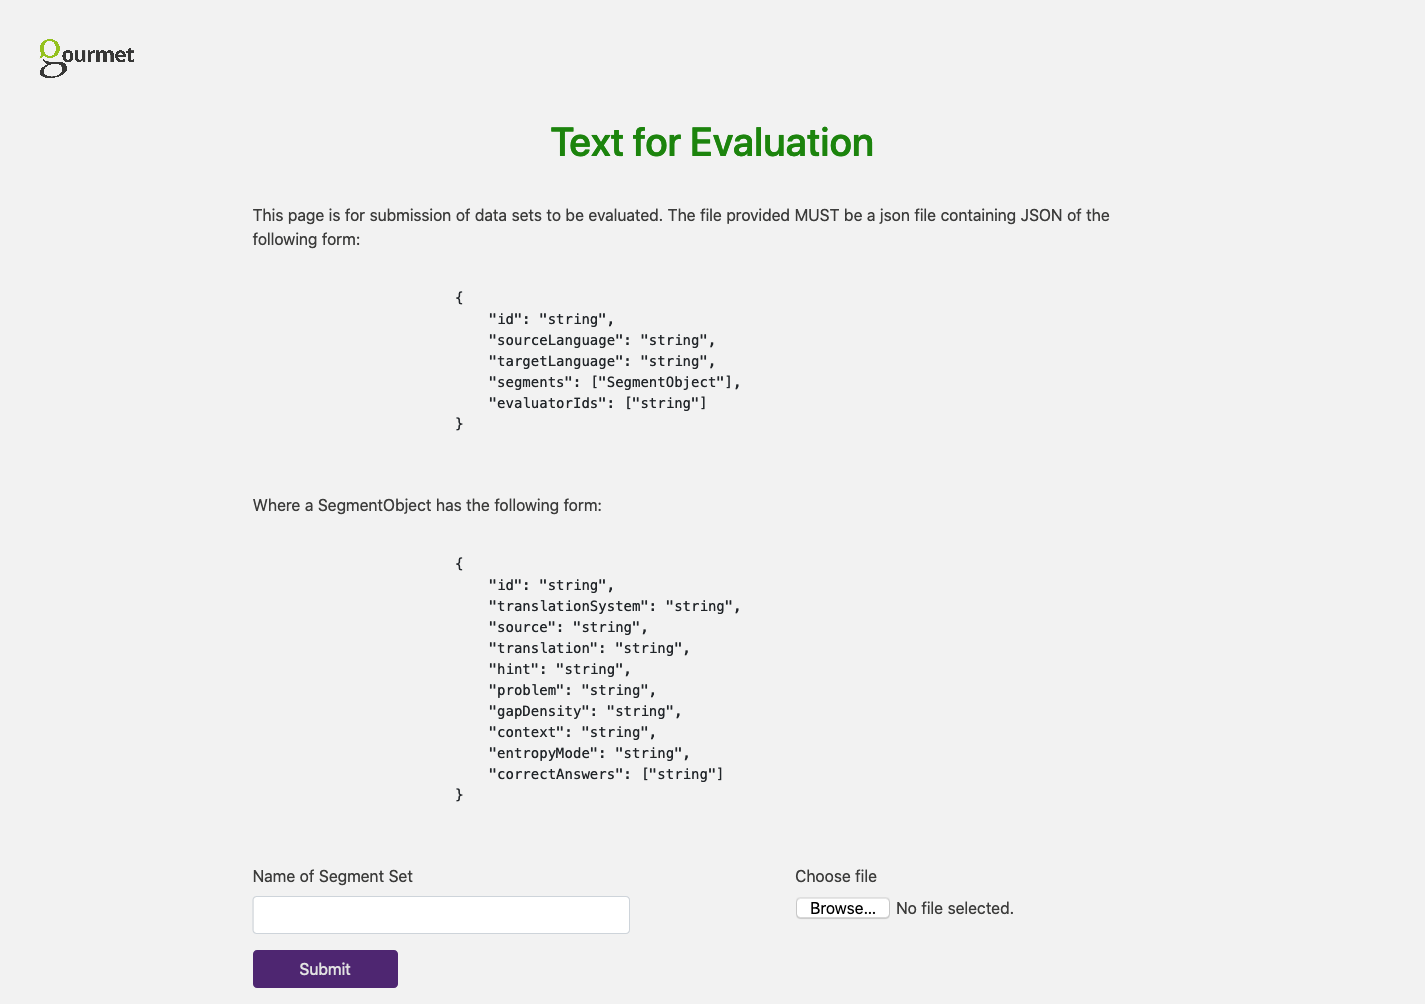
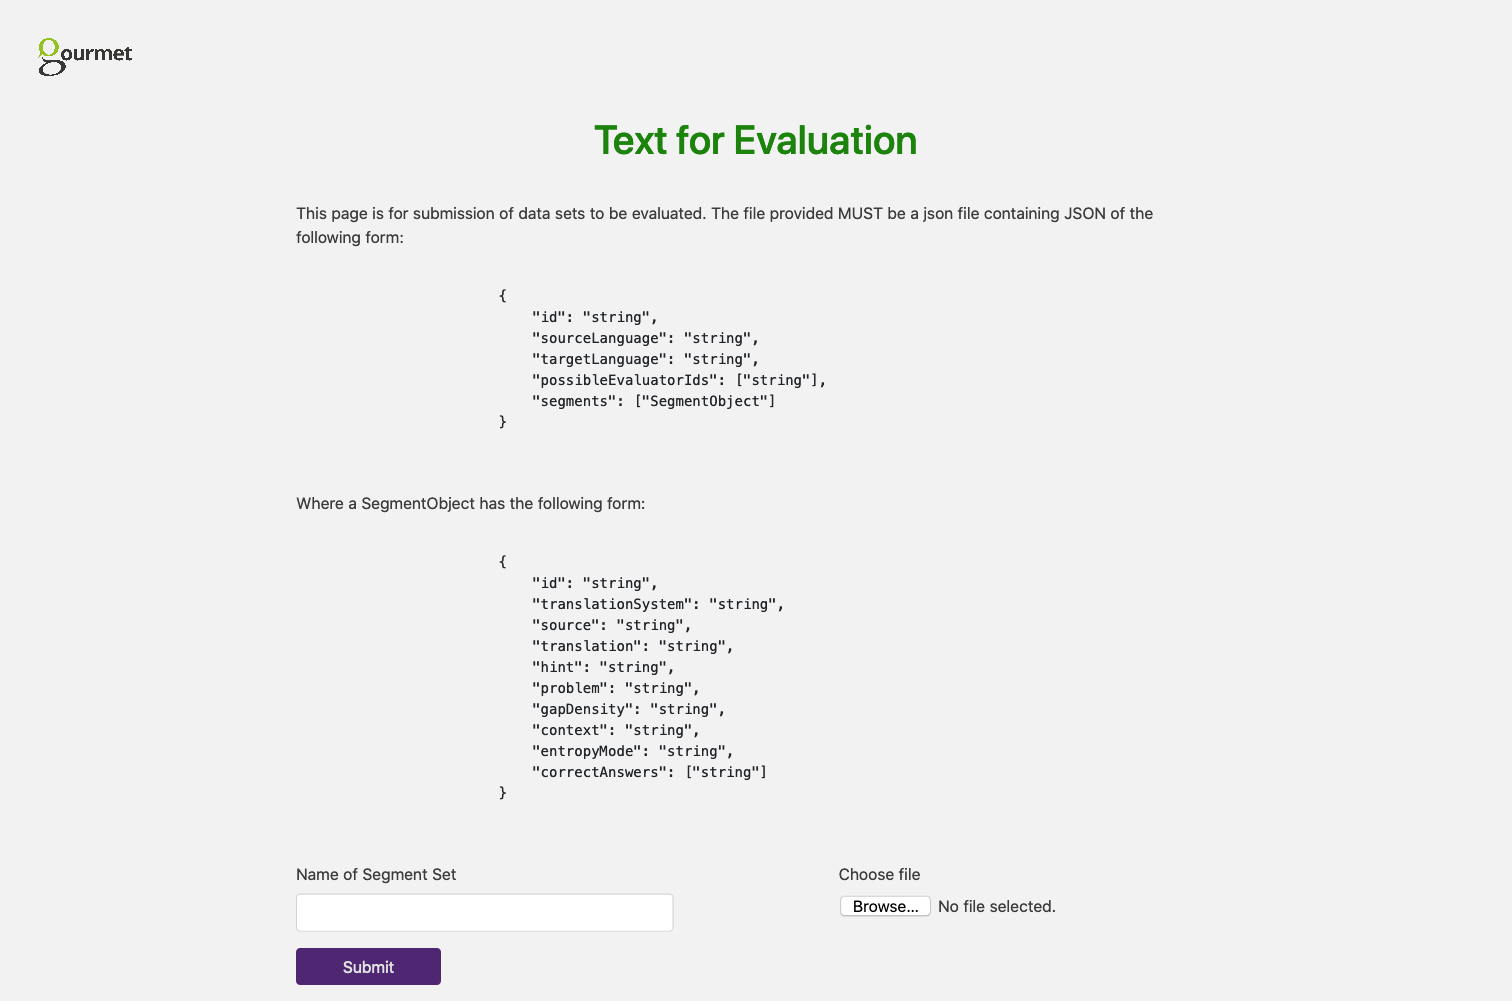
docs: update Users Guide

diff --git a/docs/users.md b/docs/users.md
@@ -1,6 +1,6 @@
 # User Guide
 
-The app has two types of user 
+The app has two types of user
 
 - Evaluation Coordinators: Individuals running the evaluation. They are responsible for providing the data sets to be evaluated and reviewing the results of the evaluation
 - Participants: Individuals completing the Gap Fill Task
@@ -23,7 +23,7 @@ The Data set must be a json file with the following structure:
     "sourceLanguage": "string",
     "targetLanguage": "string",
     "segments": ["SegmentObject"],
-    "evaluatorIds": ["string"]
+    "possibleEvaluatorIds": ["string"]
 }
 ```
 
@@ -48,40 +48,40 @@ For Example:
 
 ```json
 {
-    "evaluatorIds": ["evaluator1", "evaluator2"],
-    "segments": [
-        {
-        "id": "8f5df790-4996-11ea-983b-acde48001122",
-        "translationSystem": "gourmet",
-        "gapDensity": "20.0",
-        "context": "-doc",
-        "entropyMode": "-ent",
-        "source": "Той трудно намира работници сред местните хора и се тревожи за бъдещето.",
-        "hint": "He finds it hard to find workers among local people and worries about the future.",
-        "translation": "He struggles to find enough local workers in rural Scotland to work in the field and is worried about the future.",
-        "problem": "He struggles to find enough local workers in rural Scotland to work in the field and is worried about the { }.",
-        "correctAnswers": ["future"]
-        },
-        {
-        "id": "8f91f41e-4996-11ea-a072-acde48001122",
-        "translationSystem": "NONE",
-        "gapDensity": "20.0",
-        "context": "-doc",
-        "entropyMode": "-ent",
-        "source": "Кадрите със скандалната целувка обиколиха света, тъй като музикантите споделиха в Инстаграм снимката с думите: 'Русия, обичаме те'.",
-        "hint": "[Take your best guess]",
-        "translation": "Images of the scandalous kiss went around the globe, with the group making sure they shared the moment on Instagram accompanied by the words: “Russia, we love you”.",
-        "problem": "Images of the scandalous kiss went around the { }, with the group making { } they shared the { } on Instagram { } by the words: “{ }, we love you”.",
-        "correctAnswers": ["globe", "sure", "moment", "accompanied", "Russia"]
-        }
-    ]
+  "possibleEvaluatorIds": ["evaluator1", "evaluator2"],
+  "segments": [
+    {
+      "id": "8f5df790-4996-11ea-983b-acde48001122",
+      "translationSystem": "gourmet",
+      "gapDensity": "20.0",
+      "context": "-doc",
+      "entropyMode": "-ent",
+      "source": "Той трудно намира работници сред местните хора и се тревожи за бъдещето.",
+      "hint": "He finds it hard to find workers among local people and worries about the future.",
+      "translation": "He struggles to find enough local workers in rural Scotland to work in the field and is worried about the future.",
+      "problem": "He struggles to find enough local workers in rural Scotland to work in the field and is worried about the { }.",
+      "correctAnswers": ["future"]
+    },
+    {
+      "id": "8f91f41e-4996-11ea-a072-acde48001122",
+      "translationSystem": "NONE",
+      "gapDensity": "20.0",
+      "context": "-doc",
+      "entropyMode": "-ent",
+      "source": "Кадрите със скандалната целувка обиколиха света, тъй като музикантите споделиха в Инстаграм снимката с думите: 'Русия, обичаме те'.",
+      "hint": "[Take your best guess]",
+      "translation": "Images of the scandalous kiss went around the globe, with the group making sure they shared the moment on Instagram accompanied by the words: “Russia, we love you”.",
+      "problem": "Images of the scandalous kiss went around the { }, with the group making { } they shared the { } on Instagram { } by the words: “{ }, we love you”.",
+      "correctAnswers": ["globe", "sure", "moment", "accompanied", "Russia"]
+    }
+  ]
 }
 ```
 
-- possibleEvaluatorIds: A participant will select an evaluator ID when starting the exercise. This determines the list of evaluator IDs that will be available for a given data set. The Tool will always provide the evaluator ID 'tester'. This is used for testing purposes and should not be used by an actual participant as their scores will not be shown in the results
-- evaluatorIds: a list of evaluator IDs of users who completed the exercise
+- **possibleEvaluatorIds**: A participant will select an evaluator ID when starting the exercise. This determines the list of evaluator IDs that will be available for a given data set. The Tool will always provide the evaluator ID 'tester'. This is used for testing purposes and should not be used by an actual participant as their scores will not be shown in the results
+- **evaluatorIds**: a list of evaluator IDs of users who completed the exercise
 
-This [script](https://gitlab.com/mlforcada/bbc-dw-gf) can be used to generate a data set.
+This [script](https://gitlab.com/mlforcada/bbc-dw-gf) can be used to generate a data set. `possibleEvaluatorIds` must be added manually.
 
 #### Submitting a Data Set
 
